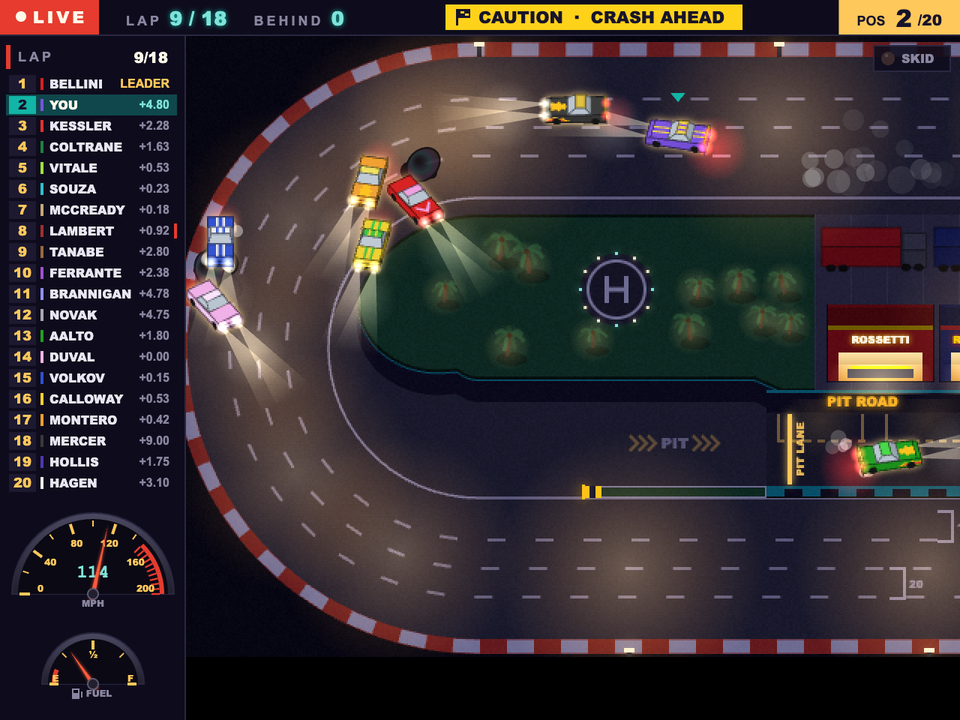
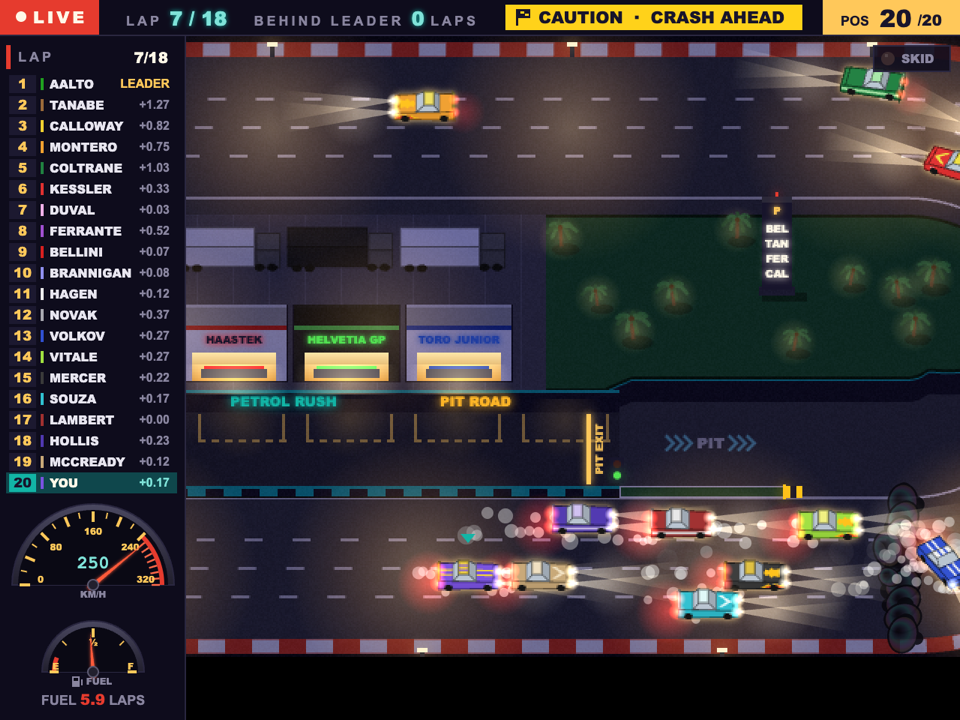
Describe the speeds in the README in km/h and retake the screenshots

diff --git a/README.md b/README.md
@@ -63,7 +63,7 @@ are no image, audio or font files in the project.
 <table>
   <tr>
     <td><img src="docs/screenshots/race.png" alt="Race HUD: timing tower, semicircular speedometer and fuel gauge, night track"></td>
-    <td><img src="docs/screenshots/crash.png" alt="Crash ahead: yellow caution banner, oil slicks and a penalty in the timing tower"></td>
+    <td><img src="docs/screenshots/crash.png" alt="Crash ahead: yellow caution banner, oil slicks and cars spinning at the end of the straight"></td>
   </tr>
   <tr>
     <td align="center"><sub>Packed night oval – live tower, fuel on the edge, one bad corner from disaster</sub></td>
@@ -134,8 +134,8 @@ browser does not support it (iPhone Safari).
 ## 🏆 How to race
 
 - **Corner speed depends on the radius.** The tyres have a fixed amount of grip: a tight corner or
-  the inside lane needs less speed than a wide one (the centre of the oval goes at about 160 mph,
-  the outside lane at about 174). A held steering key asks for about all the grip there is, so you
+  the inside lane needs less speed than a wide one (the centre of the oval goes at about 257 km/h,
+  the outside lane at about 280). A held steering key asks for about all the grip there is, so you
   can drive right at the limit. A little too fast and the car runs wide and scrubs speed; keep
   steering into a corner you are clearly too fast for and the tail steps out – steer against it (a
   quick tap is enough for a small slide) or it spins. A slide costs more time than braking would
@@ -144,7 +144,7 @@ browser does not support it (iPhone Safari).
 - **Warnings:** the red zone on the speedometer shows the limit
   speed of the next corner; the **SKID** lamp lights only when the car really slides, blinks faster
   the more it slides and stays lit through a spin. The cockpit LED strip shows the start lights,
-  then how close you are to top speed (one LED per 5 mph from 140, all lit at 180).
+  then how close you are to top speed (one LED per 10 km/h from 210, all lit at top speed, 290).
 - **Hold the throttle to keep your speed** – release it and the car slowly coasts down, like
   lifting off the pedal. Braking is stronger at high speed.
 - **Overtake on the straights.** Steering builds up while you hold a key: tap for small corrections,
